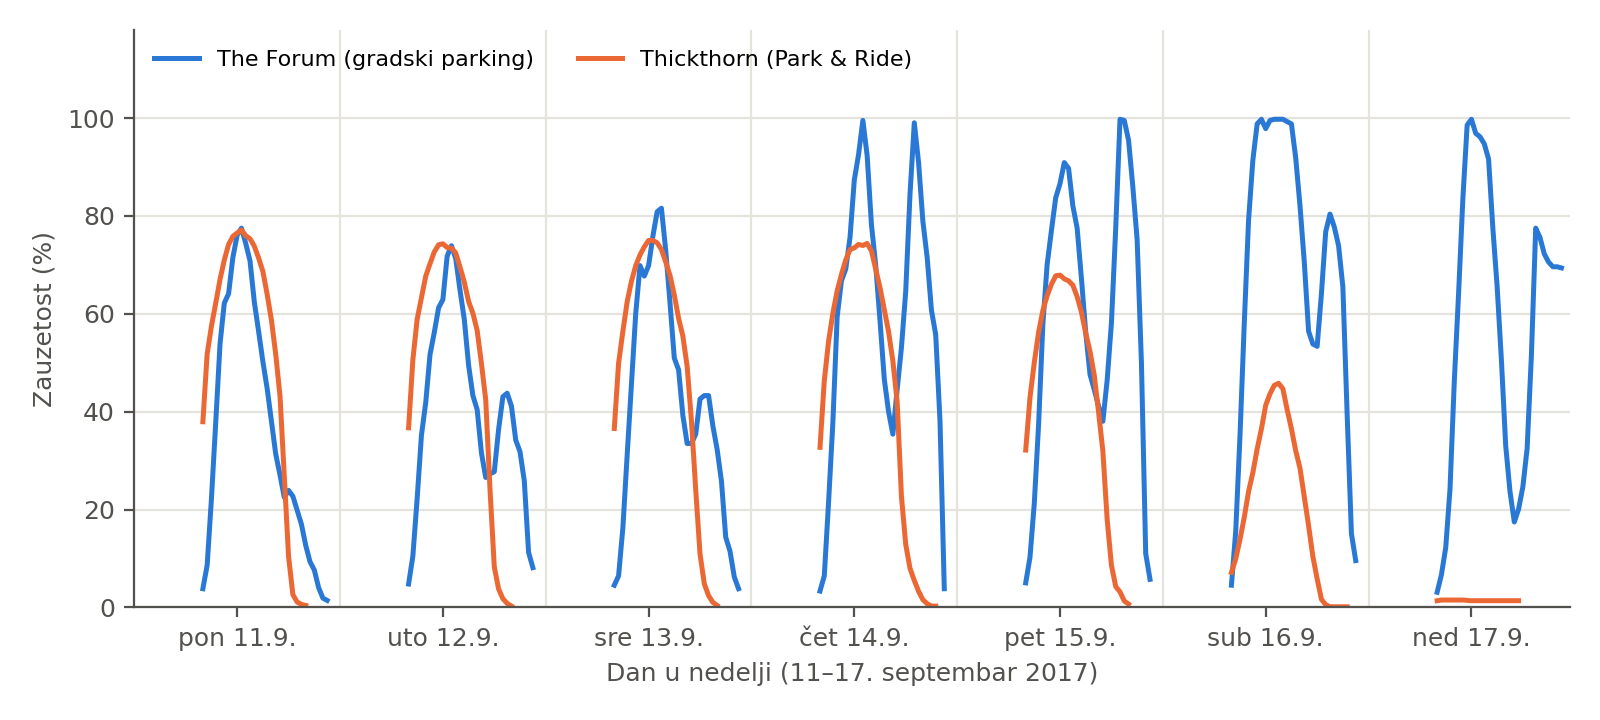
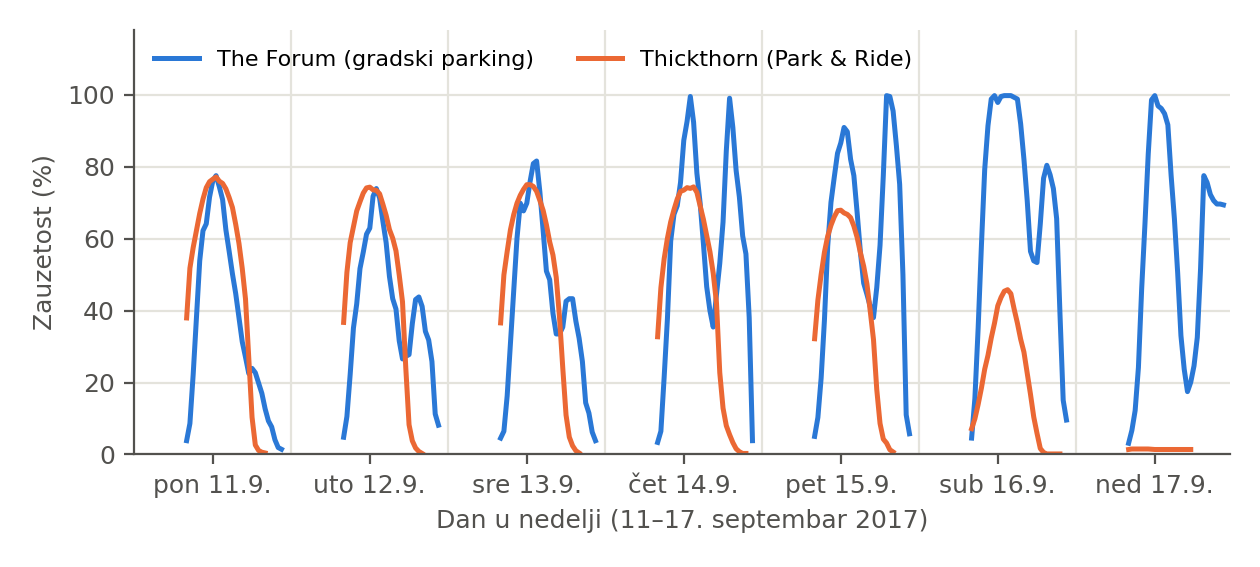
Korak 9: sema primera za ucenje (3.2), slike za rad u sirini teksta
Nova slika rad_3_3_primer_za_ucenje.png (sema: ulazi poznati u trenutku t,
izlaz y(t+h)). Sve slike za rad su sada siroke 16 cm, da natpisi ostanu
citljivi kad se ubace u Word; legenda autokorelacije je iznad grafika.

Changed region(s): [[0.0, 0.06, 0.9905, 0.9594]]

diff --git a/ml/thesis_figures.py b/ml/thesis_figures.py
@@ -4,6 +4,8 @@ Slike za pisani rad (korak 9) koje ne pravi nijedan od eksperimenata.
 Poglavlje 3.1 (vremenske serije):
   rad_3_1_nedeljni_tok.png      zauzetost gradskog i P&R parkinga kroz jednu nedelju
   rad_3_2_autokorelacija.png    autokorelacija zauzetosti za pomake do dve nedelje
+Poglavlje 3.2 (prognoza kao nadgledano ucenje):
+  rad_3_3_primer_za_ucenje.png  sema: koji ulazi su poznati u trenutku t, sta je cilj
 
 Slike nemaju naslov u samoj slici: u radu naslov ide u natpis ispod slike
 („Slika 3.1. ...”), po uputstvu „Forma master rada”. Natpisi su na srpskom, a ose
@@ -44,6 +46,8 @@ EXCLUDED_FROM_ACF = {"C06391"}  # B&Q Boundary Road: kopirani podaci
 COLORS = {"grad": "#2a78d6", "Park & Ride": "#eb6834"}
 INK, MUTED, GRID = "#21201c", "#52514e", "#e4e3dc"
 DAY_NAMES = ["pon", "uto", "sre", "čet", "pet", "sub", "ned"]
+# Sirina slike = sirina teksta u radu (16 cm), da natpisi od 8-9 pt ostanu te velicine na papiru.
+FIG_WIDTH_IN = 6.3
 
 
 def _style_axes(ax) -> None:
@@ -68,7 +72,7 @@ def plot_week(series: dict[str, pd.Series], types: dict[str, str]) -> None:
     import matplotlib.pyplot as plt
 
     week = pd.date_range(WEEK_START, WEEK_START + pd.Timedelta(days=7), freq="30min", inclusive="left")
-    fig, ax = plt.subplots(figsize=(8, 3.6))
+    fig, ax = plt.subplots(figsize=(FIG_WIDTH_IN, FIG_WIDTH_IN * 0.45))
     for park_id, label in WEEK_PARKS.items():
         values = series[park_id].reindex(week) * 100
         ax.plot(week, values, color=COLORS[types[park_id]], linewidth=1.8, label=label)
@@ -107,7 +111,7 @@ def plot_autocorrelation(acf_by_type: dict[str, np.ndarray]) -> None:
     """Slika 3.2: prosecna autokorelacija po tipu parkinga; vrhovi na 1 i 7 dana."""
     import matplotlib.pyplot as plt
 
-    fig, ax = plt.subplots(figsize=(8, 3.6))
+    fig, ax = plt.subplots(figsize=(FIG_WIDTH_IN, FIG_WIDTH_IN * 0.45))
     for park_type, acf in acf_by_type.items():
         lags_days = np.arange(1, len(acf) + 1) / STEPS_PER_DAY
         label = "gradski parkinzi" if park_type == "grad" else "Park & Ride parkinzi"
@@ -117,20 +121,71 @@ def plot_autocorrelation(acf_by_type: dict[str, np.ndarray]) -> None:
         ax.annotate(text, (day, 1.08), xytext=(4, 0), textcoords="offset points", fontsize=8, color=INK, va="center")
     ax.set_xticks(range(0, MAX_LAG_DAYS + 1))
     ax.set_xlim(0, MAX_LAG_DAYS)
-    ax.set_ylim(-0.6, 1.35)  # prostor iznad krivih za natpise i legendu
+    ax.set_ylim(-0.6, 1.2)  # prostor iznad krivih za natpise
     ax.set_yticks([-0.5, 0, 0.5, 1.0])
     ax.axhline(0, color=MUTED, linewidth=0.8)
     ax.set_xlabel("Pomak (dani)", fontsize=9, color=MUTED)
     ax.set_ylabel("Autokorelacija", fontsize=9, color=MUTED)
     _style_axes(ax)
-    ax.legend(frameon=False, fontsize=8, loc="upper right", ncol=2)
-    fig.tight_layout()
+    # Legenda iznad grafika, da ne prekriva natpise na 1 i 7 dana.
+    handles, labels = ax.get_legend_handles_labels()
+    fig.legend(handles, labels, frameon=False, fontsize=8, loc="upper center", ncol=2)
+    fig.tight_layout(rect=(0, 0, 1, 0.92))
     _save(fig, "rad_3_2_autokorelacija.png")
+    plt.close(fig)
+
+
+def plot_supervised_example() -> None:
+    """Slika 3.3: sema (nije u razmeri) jednog primera za ucenje. Ulazi su
+    vrednosti poznate u trenutku t, cilj je zauzetost u trenutku t + h."""
+    import matplotlib.pyplot as plt
+    from matplotlib.patches import FancyArrowPatch
+
+    recent, seasonal, target = "#2a78d6", "#1baf7a", "#eb6834"  # validirana paleta (dataviz)
+    x = {"lastweek": 0.6, "yesterday": 2.4, "t2": 4.2, "t1": 4.75, "t": 5.3, "target": 7.6}
+    fig, ax = plt.subplots(figsize=(FIG_WIDTH_IN, FIG_WIDTH_IN * 0.3625))
+    # Vremenska osa sa prekidima (sema nije u razmeri).
+    for a, b in ((0.0, 1.35), (1.65, 3.15), (3.45, 8.4)):
+        ax.plot([a, b], [0, 0], color=MUTED, linewidth=1.2)
+    for gap in (1.5, 3.3):
+        ax.text(gap, 0, "//", ha="center", va="center", fontsize=11, color=MUTED)
+    ax.annotate("", (8.55, 0), (8.35, 0), arrowprops=dict(arrowstyle="->", color=MUTED, lw=1.2))
+    ax.text(8.55, -0.28, "vreme", ha="right", fontsize=8, color=MUTED)
+    ax.plot([x["t"], x["t"]], [-0.15, 1.35], color=INK, linewidth=1, linestyle="--")
+    ax.text(x["t"], 1.45, "sada (trenutak prognoze)", ha="center", fontsize=8, color=INK)
+
+    points = [
+        ("lastweek", "t+h−7 dana", seasonal, "s"), ("yesterday", "t+h−1 dan", seasonal, "s"),
+        ("t2", "t−2", recent, "o"), ("t1", "t−1", recent, "o"), ("t", "t", recent, "o"),
+        ("target", "t+h", target, "D"),
+    ]
+    for key, label, color, marker in points:
+        ax.plot(x[key], 0, marker=marker, markersize=9, color=color, markeredgecolor="white", zorder=3)
+        ax.text(x[key], -0.32, label, ha="center", va="top", fontsize=8, color=INK)
+
+    ax.text(x["t"] - 0.12, 0.42, "ulazi: poslednje vrednosti\ny(t), y(t−1), y(t−2)", ha="right", fontsize=8,
+            color=recent)
+    ax.text((x["lastweek"] + x["yesterday"]) / 2, 0.42, "ulazi: isto vreme kao cilj, ranije\n(pre nedelju dana i juče)",
+            ha="center", fontsize=8, color=seasonal)
+    ax.text(x["target"], 0.42, "izlaz: y(t+h)", ha="center", fontsize=8, color=target)
+    ax.text(x["target"], -0.75, "ulaz: kalendar ciljnog trenutka\n(sat, dan, vikend, praznik)", ha="center",
+            va="top", fontsize=8, color=INK)
+    horizon = FancyArrowPatch((x["t"], 1.05), (x["target"], 1.05), arrowstyle="<->", mutation_scale=10,
+                              color=INK, linewidth=1)
+    ax.add_patch(horizon)
+    ax.text((x["t"] + x["target"]) / 2, 1.13, "horizont h (i on je ulaz)", ha="center", fontsize=8, color=INK)
+
+    ax.set_xlim(-0.1, 8.7)
+    ax.set_ylim(-1.35, 1.7)
+    ax.axis("off")
+    fig.tight_layout()
+    _save(fig, "rad_3_3_primer_za_ucenje.png")
     plt.close(fig)
 
 
 def main() -> None:
     os.makedirs(OUTPUT_DIR, exist_ok=True)
+    plot_supervised_example()
     types = {p["park_id"]: p["type"] for p in parks_module.load_parks()}
     series = {k: s[s.index < TRAIN_END] for k, s in resample_per_park(load_raw("norfolk")).items()}
 

diff --git a/PROGRESS.md b/PROGRESS.md
@@ -530,6 +530,9 @@ Norfolk je ovde 5,11, a ne 4,83 kao u aplikaciji, jer su uklonjeni kopirani B&Q 
 - `ml/thesis_figures.py`: slike za rad koje ne pravi nijedan eksperiment, bez naslova u samoj slici (naslov ide u natpis ispod slike). Za potpoglavlje 3.1:
   - `rad_3_1_nedeljni_tok.png`: The Forum i Thickthorn, 11.–17.9.2017. The Forum je radnim danom (pon–sre) na vrhu 74–82%, a od četvrtka do nedelje 100%; Thickthorn radnim danom ~68–77%, subotom 46%, nedeljom ne radi.
   - `rad_3_2_autokorelacija.png`: prosečna autokorelacija po tipu (8 gradskih, 6 P&R; trening podaci; B&Q izostavljen zbog kopiranih podataka; pomaci sa manje od 1000 parova merenja izostavljeni). Gradski / P&R: 30 min 0,96 / 0,98; 12 h −0,28 / −0,04; 1 dan 0,75 / 0,77; 3 dana 0,64 / 0,48; **7 dana 0,86 / 0,85**; 14 dana 0,83 / 0,83. Isti dan pre nedelju dana je sličniji od juče, što opravdava ulaze `y_yesterday` i `y_lastweek`.
+  - `rad_3_3_primer_za_ucenje.png` (potpoglavlje 3.2): šema jednog primera za učenje (ulazi poznati u trenutku t, kalendar ciljnog trenutka i horizont; izlaz y(t + h)).
+  - Sve slike za rad su široke 16 cm (širina teksta), da natpisi od 8–9 pt ostanu čitljivi na papiru.
+- U Word fajl su ubačeni nacrti potpoglavlja 3.1 i 3.2 (tekst, slike 3.1–3.3, formule 3.1 i 3.2, reference [9] i [10]).
 
 ### Korak 8 — Higijena projekta ✅
 
